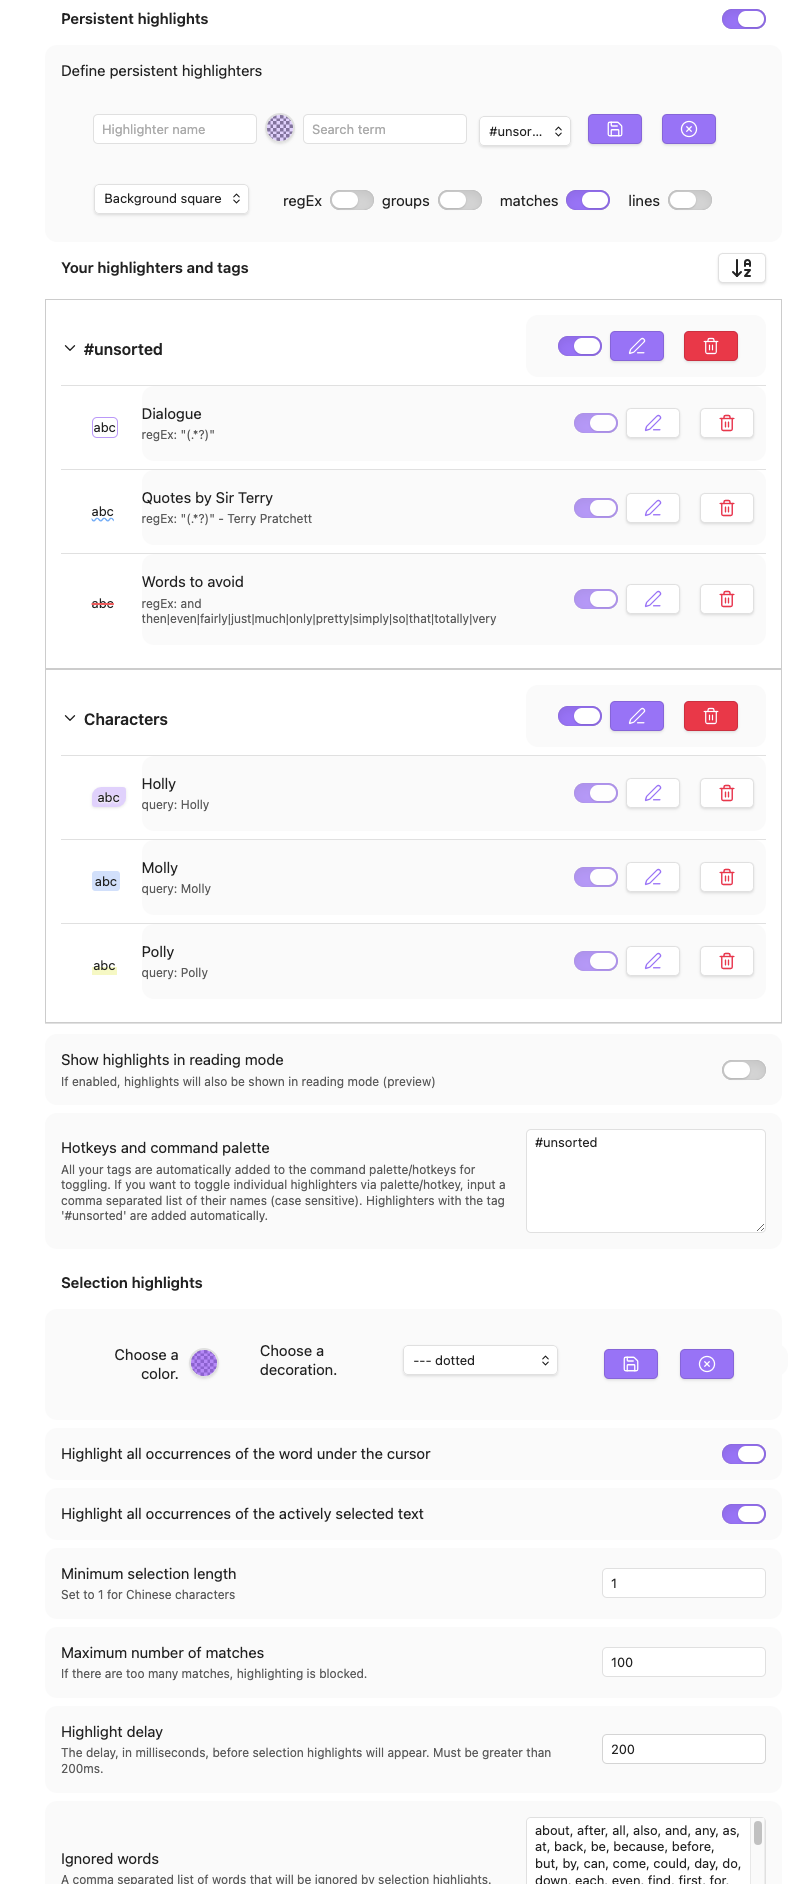
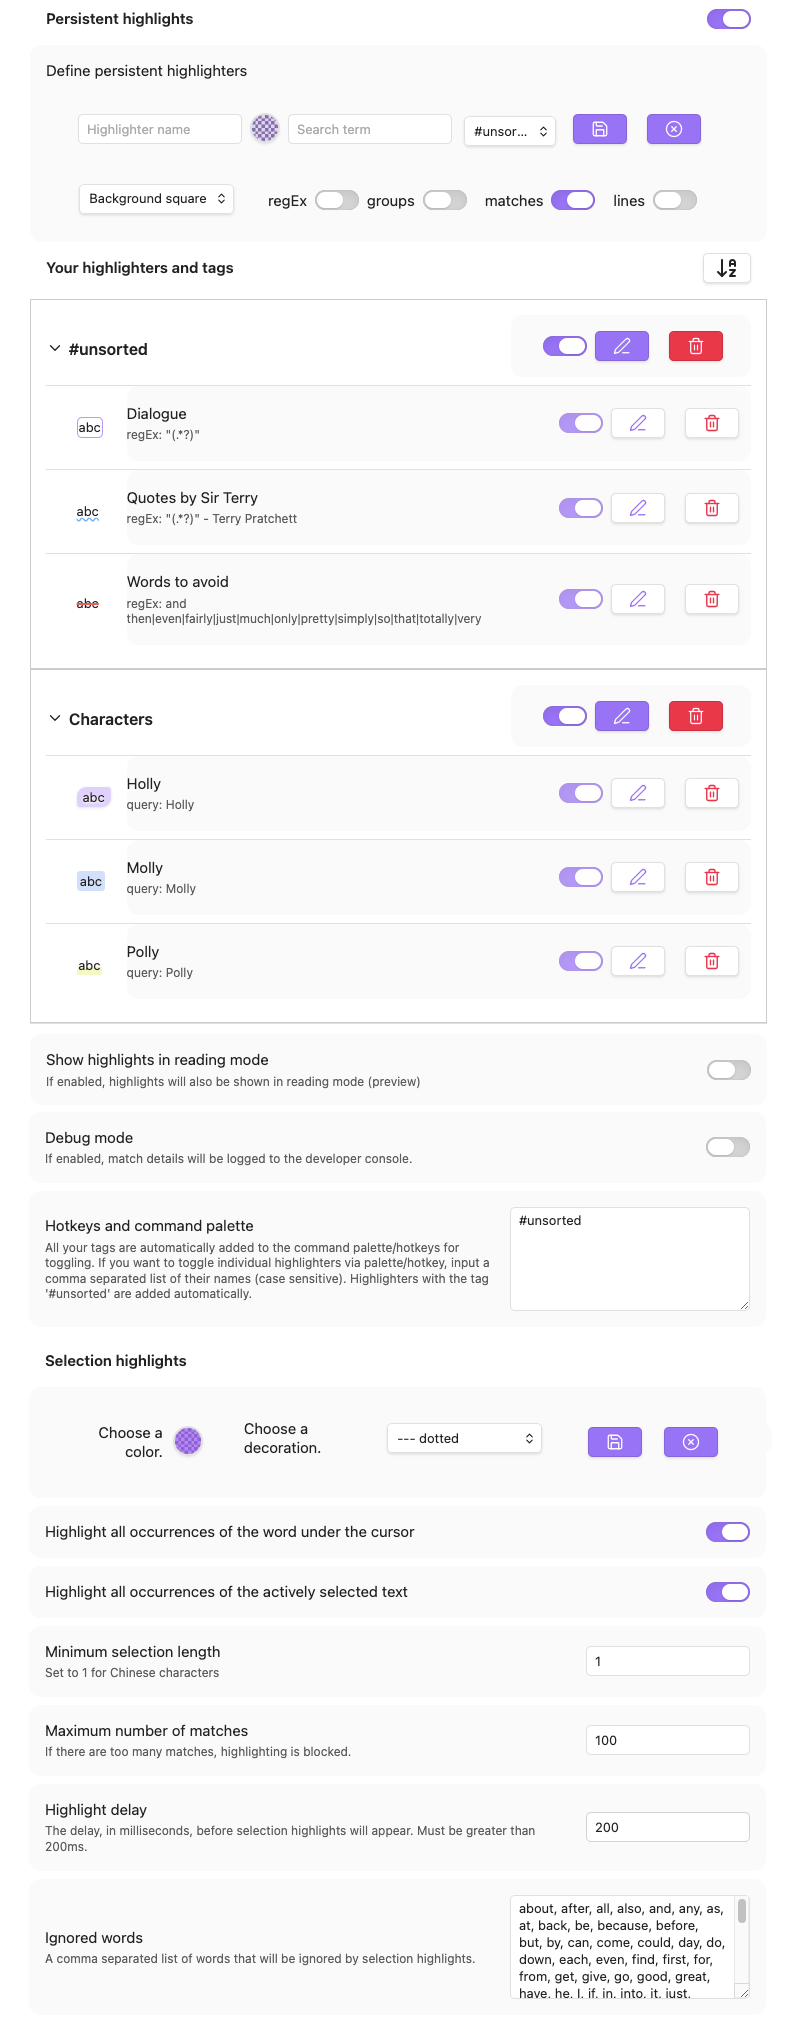
1.2.7

diff --git a/CHANGELOG.md b/CHANGELOG.md
@@ -1,34 +1,56 @@
+## [1.2.7]
+
+Kindly contributed by @Moyf. Thank you so much!
+
+- Some UI fixes (responsiveness, improved dark mode)
+- Option to duplicate queries
+- A debug mode
+
 ## [1.2.6]
+
 - small UI fix
 
 ## [1.2.5]
-- added option to set selection length and max number of matches to improve usability for Chinese characters
+
+- added option to set selection length and max number of matches to improve
+  usability for Chinese characters
 
 ## [1.2.3]
+
 - updated glob to version 11.1.0
 
 ## [1.2.2]
+
 - main.js was corrupted in [1.2.1]
 - I am sorry for that inconvenience, too
 - what a day
 
 ## [1.2.1]
+
 - I accidentally released main.ts in v1.2.0, which broke the plugin for
   everyone.
 - I'm very sorry for the inconvenience -.-
 - I have now included the correct file
 
 ## [1.2.0]
+
 ## New
+
 - Now you can also use capture groups. Thanks to @leonrjg for this contribution!
 
 ## [1.1.0]
+
 ## Fixes
+
 - reading mode was missing support for /case insensitive/i searches
 - correct version bump for new features
 
 ## [1.0.7]
+
 ### Fixes
+
 - missing x button in settings panel
+
 ### New:
+
 - works now in reading mode, but semantic versioning is hard

diff --git a/README.md b/README.md
@@ -3,11 +3,19 @@ the regEx, but otherwise I left the basic mechanics untouched. I just added a
 lot more customisability and some usability features, which I hope you find
 worthwhile.
 
-UPDATES
+/// UPDATES -------------------
 
-- **2026-03-26:** You can now choose the min length of selection highlights. Set it
-  to 1 to work for *Chinese characters*. 
-- **2025-08-16:** @leonrjg added *capture group* functionality. Thank you!
+- **2026-04-25:** @Moyf added a bunch of stuff:
+  - Some UI fixes (responsiveness, improved dark mode)
+  - Option to duplicate queries
+  - A debug mode
+
+- **2026-03-26:** You can now choose the min length of selection highlights. Set
+  it to 1 to work for _Chinese characters_.
+
+- **2025-08-16:** @leonrjg added _capture group_ functionality. Thank you!
+
+/// ----------------------------
 
 Some of the highlight styles were inspired by those available in 'Highlightr' by
 @chetachiezikeuzor, so if you're using that, aDHL should fit right in, style
@@ -112,8 +120,10 @@ left to right, top to bottom. The example queries can be found all the way down.
 - **Highlight all occurrences of the actively selected text:** As the
   description says. Find a toggle for this also in the Control Palette/Hotkey
   panel.
-- **Mininum selection length:** You can set this to 1 so Chinese characters can be highlighted.
-- **Maximum number of matches:** If the plugin finds more matches than this, highlighting will be blocked.
+- **Mininum selection length:** You can set this to 1 so Chinese characters can
+  be highlighted.
+- **Maximum number of matches:** If the plugin finds more matches than this,
+  highlighting will be blocked.
 - **Highlight delay:** For when you want the word around your cursor to be
   highlighted, but only when you stop typing for a moment.
 - **Ignored words:** A list of words you don't want to be highlighted, even when